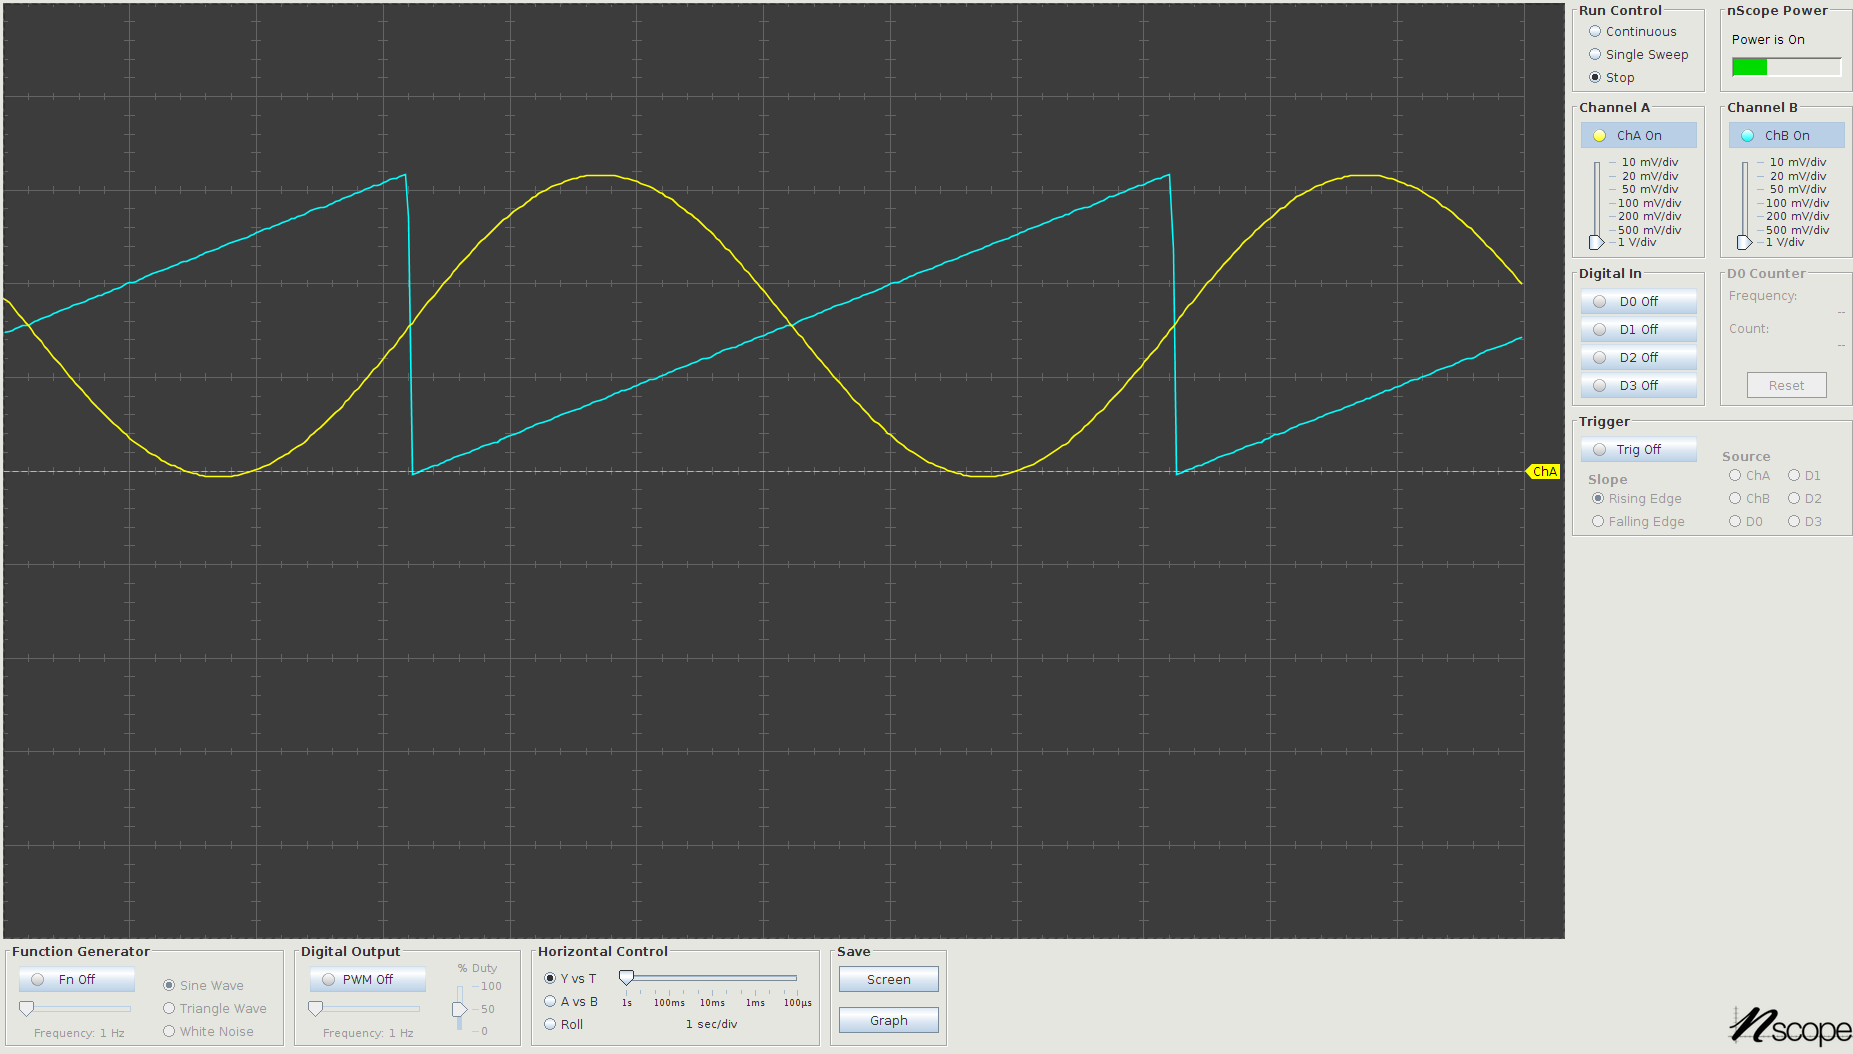
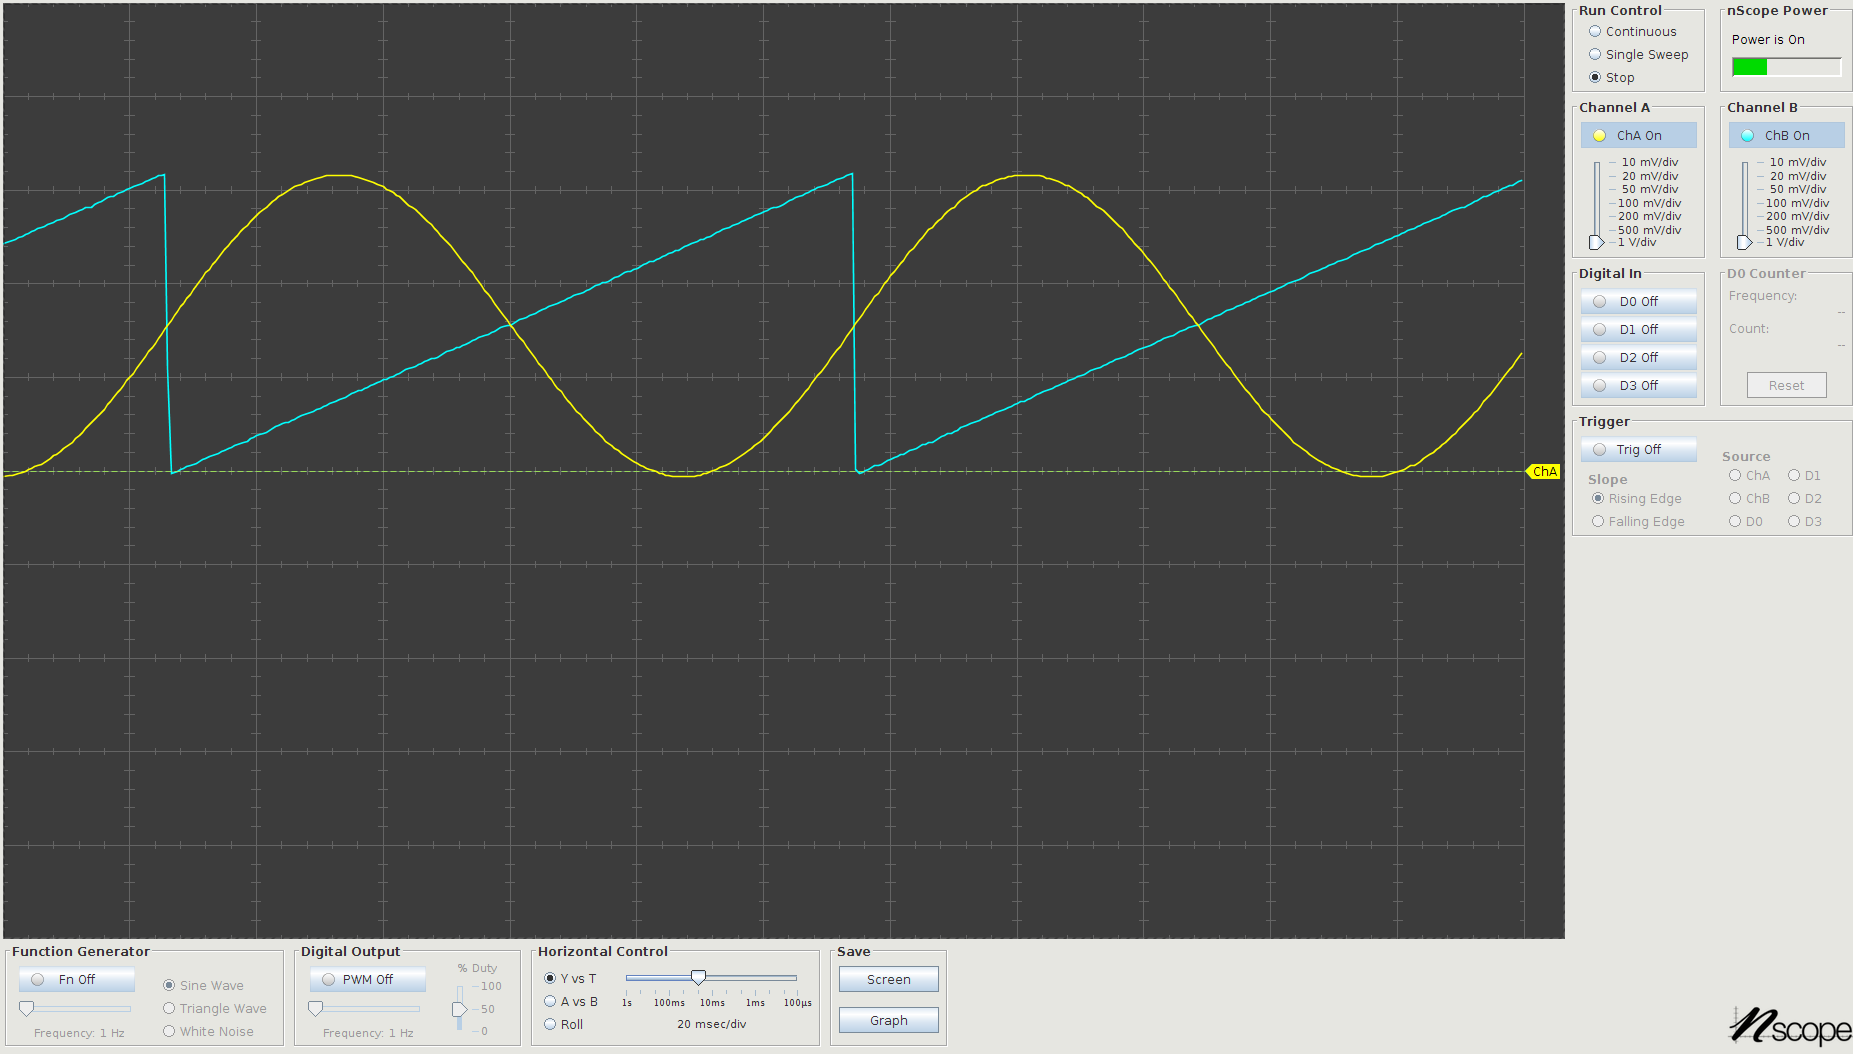
fixed speed of DAC outputs

diff --git a/hw4/spi.c b/hw4/spi.c
@@ -19,7 +19,7 @@ void spi_init() {
     // setup SPI Comms
     SPI1CON = 0;              // turn off the spi module and reset it
     SPI1BUF;                  // clear the rx buffer by reading from it
-    SPI1BRG = 11999;            // baud rate to 10 MHz [SPI1BRG = (40000000/(2*desired))-1]
+    SPI1BRG = 1;            // baud rate to 10 MHz [SPI1BRG = (40000000/(2*desired))-1]
     SPI1STATbits.SPIROV = 0;  // clear the overflow bit
     SPI1CONbits.CKE = 1;      // data changes when clock goes from hi to lo (since CKP is 0)
     SPI1CONbits.MSTEN = 1;    // master operation

diff --git a/hw4/main.c b/hw4/main.c
@@ -66,7 +66,7 @@ int main() {
     
     while(1) {
         
-        if (_CP0_GET_COUNT() > 24000) {
+        if (_CP0_GET_COUNT() > 2400) {
             a++;
             //LATAbits.LATA4 = !LATAbits.LATA4;
             //LATBbits.LATB7 = !LATBbits.LATB7;
